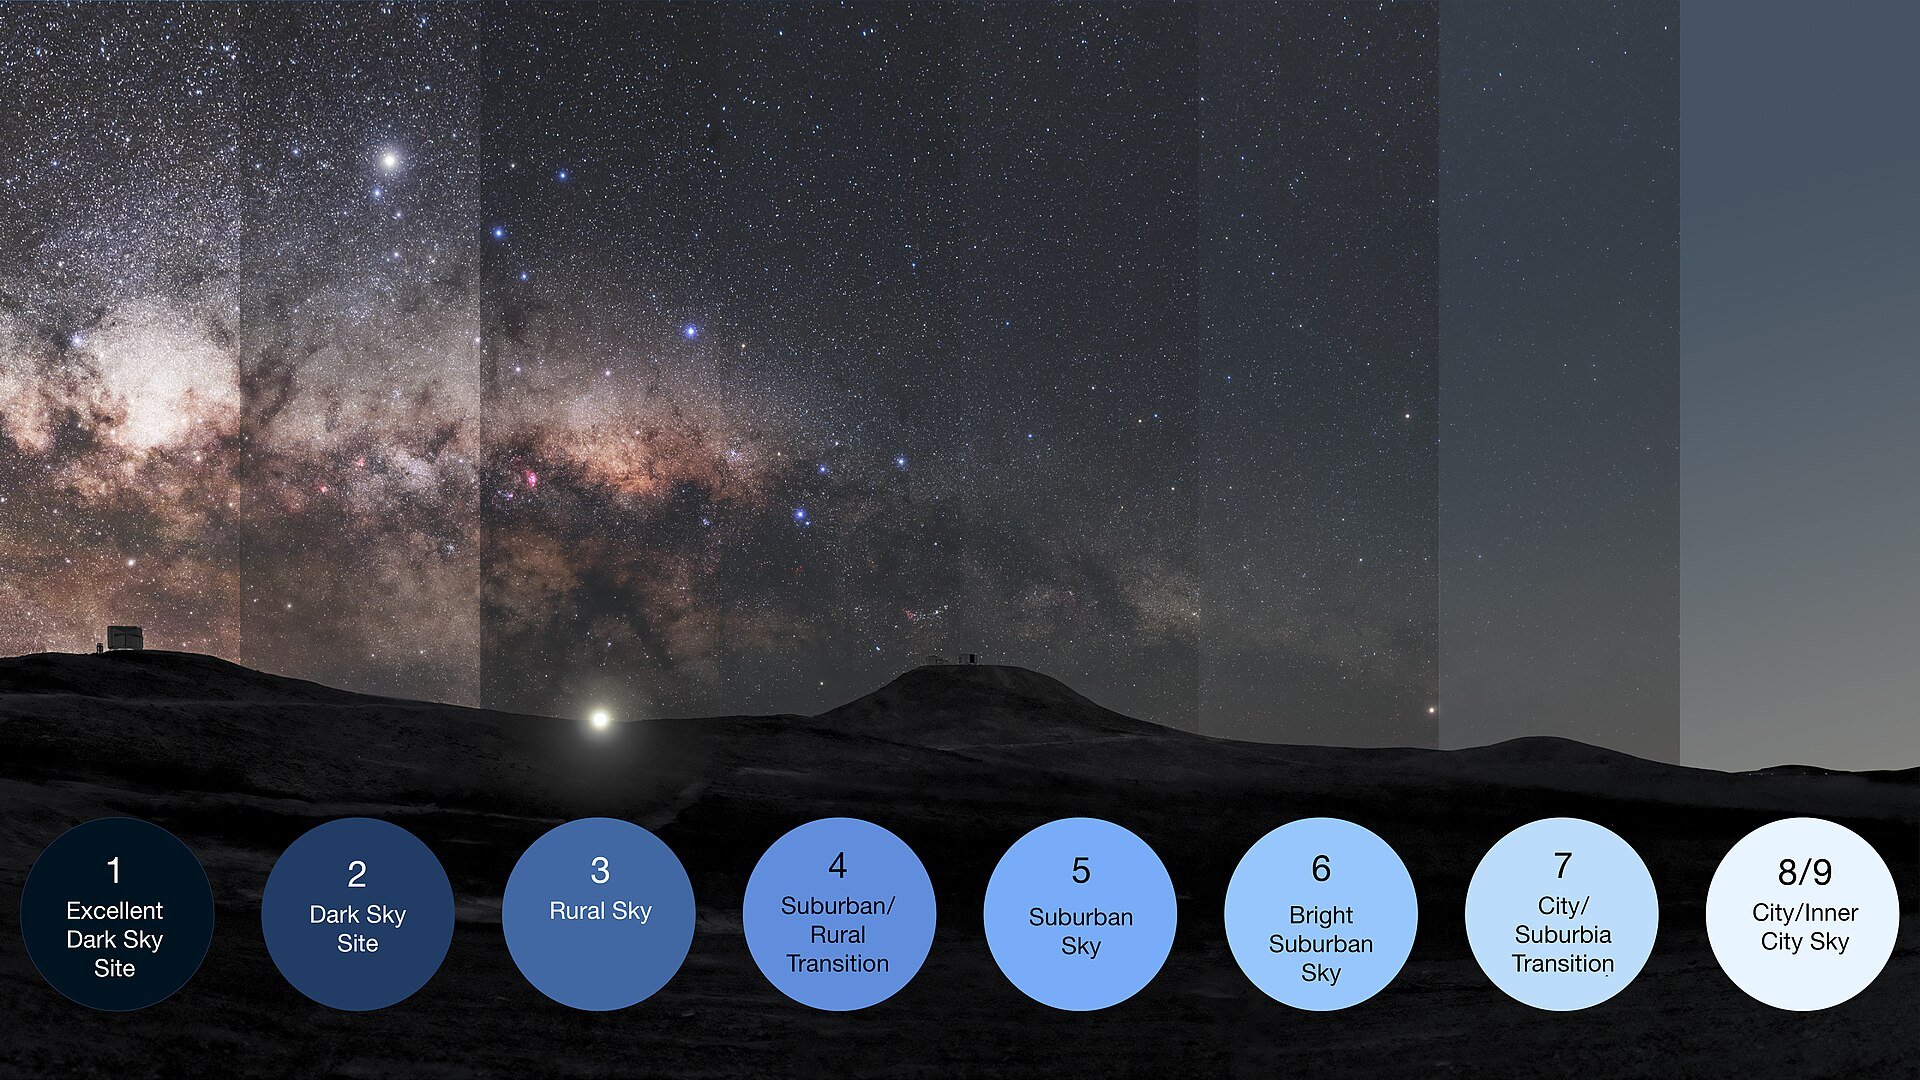
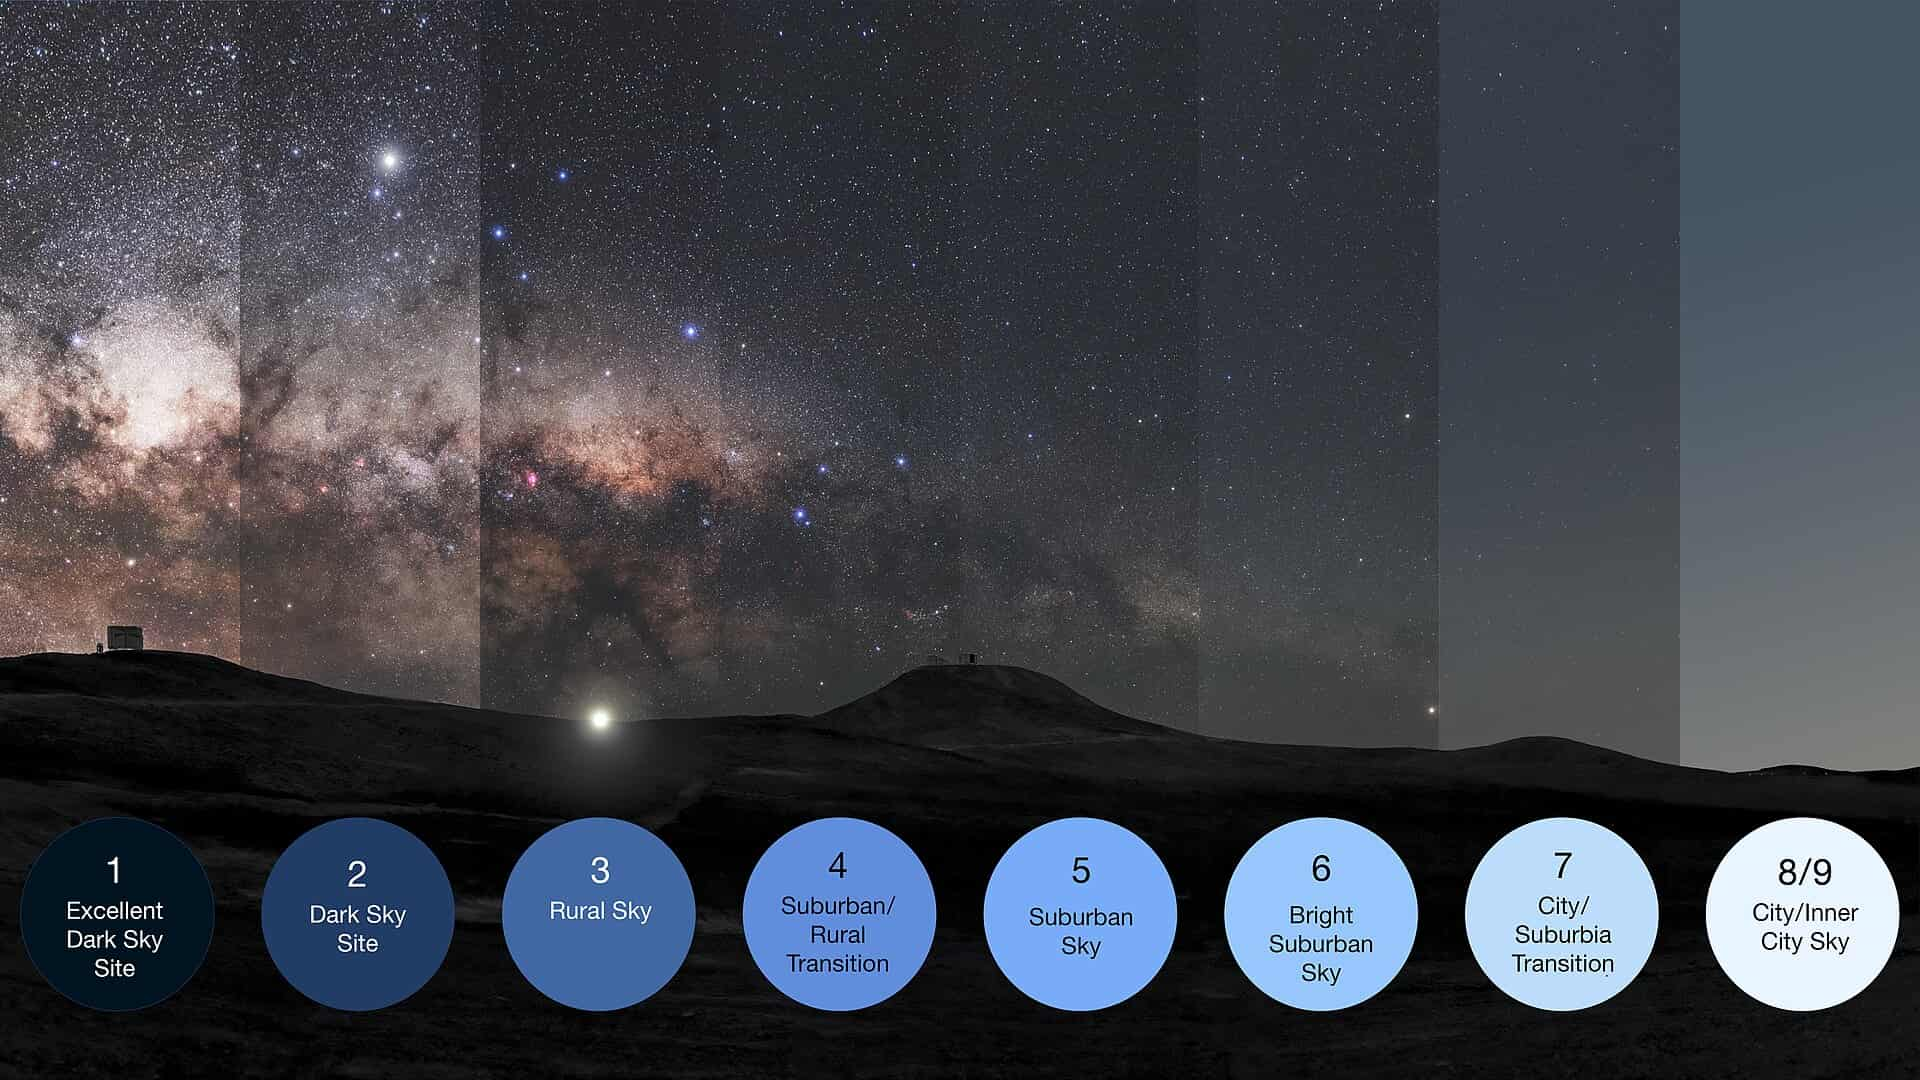
Compression work: eliminate unnecesary data from catalog, use image compression on photos

diff --git a/js/starchart.js b/js/starchart.js
@@ -21,8 +21,8 @@ const whiteListedStars = new Set([
 ]); //Stars that are part of constellations that are not connected by lines in the constellation_lines array.
 
 async function fetch_star_data() {
-    const response = await fetch('/assets/catalog'); //Yale Bright Star Catalog
-    const data = await response.text();
+    const response = await fetch('/assets/star_catalog.json'); //Yale Bright Star Catalog
+    const data = await response.json();
 
     return data;
 }
@@ -40,32 +40,14 @@ async function fetch_star_names() {
 async function parse_star_data(data) {
     await constellationLinesReady;
 
-    const lines = data.split('\n');
-    const stars = [];
-    for (const line of lines) {
-        if (line.length < 1) continue; // Skip empty lines
-        const star = {
-            id: line.substring(0, 4).trim(),
-            HD: parseInt(line.substring(25, 31).trim()),
-            name: line.substring(4, 14).trim(),
-            ra_hrs: parseFloat(line.substring(75, 77).trim()), //J2000 for RA and Dec
-            ra_min: parseFloat(line.substring(77, 79).trim()),
-            ra_sec: parseFloat(line.substring(79, 83).trim()),
-            dec_sign: line.substring(83, 84).trim(),
-            dec_deg: parseFloat(line.substring(84, 86).trim()),
-            dec_min: parseFloat(line.substring(86, 88).trim()),
-            dec_sec: parseFloat(line.substring(88, 90).trim()),
-            mag: parseFloat(line.substring(102, 107).trim()),
-        }
-        stars.push(star);
-    }
-    return filterConstellationStars(stars, constellation_lines);
+    
+    return filterConstellationStars(data, constellation_lines);
 }
 
 function getStarPositionsAtTime(observer, stars, date) {
     const starPositions = stars.map(star => {
-        const ra = star.ra_hrs + (star.ra_min / 60) + (star.ra_sec / 3600);
-        const dec = (star.dec_sign === '-' ? -1 : 1) * (star.dec_deg + (star.dec_min / 60) + (star.dec_sec / 3600));
+        const ra = star.ra;
+        const dec = star.dec;
 
         if (isNaN(ra) || isNaN(dec)) {
             console.warn(`Invalid RA/Dec for star ${star.name} (ID: ${star.id})`);
@@ -165,8 +147,8 @@ function drawConstellationLabels(ctx, centerX, centerY, starObject, constellatio
             return null;
         }
 
-        const ra = star.ra_hrs + (star.ra_min / 60) + (star.ra_sec / 3600);
-        const dec = (star.dec_sign === '-' ? -1 : 1) * (star.dec_deg + (star.dec_min / 60) + (star.dec_sec / 3600));
+        const ra = star.ra;
+        const dec = star.dec;
 
         const constellationInfo = Astronomy.Constellation(ra, dec);
 

diff --git a/sw.js b/sw.js
@@ -29,9 +29,9 @@ const ASSETS_TO_CACHE = [
     '/css/sun_and_moon_rise.css',
     '/css/starchart.css',
     '/css/redlight.css',
-    '/assets/mondo_ridotto0p25.jpg',
+    '/assets/mondo_ridotto0p25.webp',
     '/assets/bortle_reference.jpg',
-    '/assets/catalog',
+    '/assets/star_catalog.json',
     '/assets/constellation-lines-hr.utf8.txt',
     '/assets/IAU-CSN.json',
     '/icons/icon-192x192.png',

diff --git a/js/night_sky.js b/js/night_sky.js
@@ -7,7 +7,7 @@ class NightSky {
 
 
         this.image = new Image();
-        this.image.src = '/assets/mondo_ridotto0p25.jpg';
+        this.image.src = '/assets/mondo_ridotto0p25.webp';
         this.image.onload = () => {
             this.canvas.width = this.image.naturalWidth;
             this.canvas.height = this.image.naturalHeight;

diff --git a/tools/catalog.py b/tools/catalog.py
@@ -1,0 +1,58 @@
+import json
+import os
+
+catalog_path = os.path.join(os.path.dirname(__file__), '..', 'assets', 'catalog')
+
+catalog_content = open(catalog_path, 'r', encoding='utf-8').read()
+
+star_catalog = []
+
+for line in catalog_content.splitlines():
+    if line.startswith('#') or not line.strip() or len(line) < 1:
+        continue  # Skip comments and empty lines
+
+
+    # star = {
+    #         id: line.substring(0, 4).trim(),
+    #         HD: parseInt(line.substring(25, 31).trim()),
+    #         name: line.substring(4, 14).trim(),
+    #         ra_hrs: parseFloat(line.substring(75, 77).trim()),
+    #         ra_min: parseFloat(line.substring(77, 79).trim()),
+    #         ra_sec: parseFloat(line.substring(79, 83).trim()),
+    #         dec_sign: line.substring(83, 84).trim(),
+    #         dec_deg: parseFloat(line.substring(84, 86).trim()),
+    #         dec_min: parseFloat(line.substring(86, 88).trim()),
+    #         dec_sec: parseFloat(line.substring(88, 90).trim()),
+    #         mag: parseFloat(line.substring(102, 107).trim()),
+    #     }
+
+    try:
+
+        ra_hrs = float(line[75:77].strip())
+        ra_min = float(line[77:79].strip())
+        ra_sec = float(line[79:83].strip())
+
+        dec_sign = line[83:84].strip()
+        dec_deg = float(line[84:86].strip())
+        dec_min = float(line[86:88].strip())
+        dec_sec = float(line[88:90].strip())
+
+
+        star_catalog.append({
+            'id': line[0:4].strip(),
+            'HD': int(line[25:31].strip()),
+            'name': line[4:14].strip(),
+            'ra': ra_hrs + ra_min / 60 + ra_sec / 3600,
+            'dec': (dec_deg + dec_min / 60 + dec_sec / 3600) * (-1 if dec_sign == '-' else 1),
+            'mag': float(line[102:107].strip()),
+        })
+
+        
+    except ValueError as e:
+        print(f"Error parsing line: {line}")
+        print(f"Error: {e}")
+        continue
+
+
+with open(os.path.join(os.path.dirname(__file__), '..', 'assets', 'star_catalog.json'), 'w', encoding='utf-8') as f:
+    json.dump(star_catalog, f)